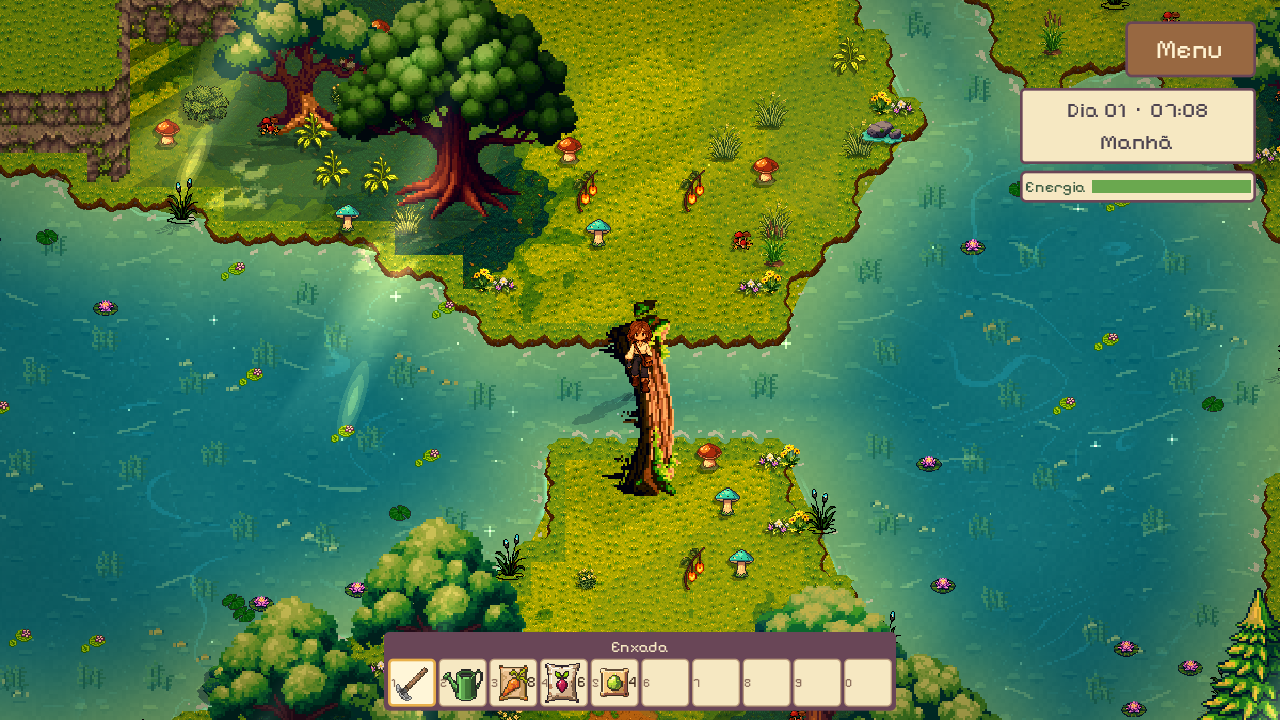
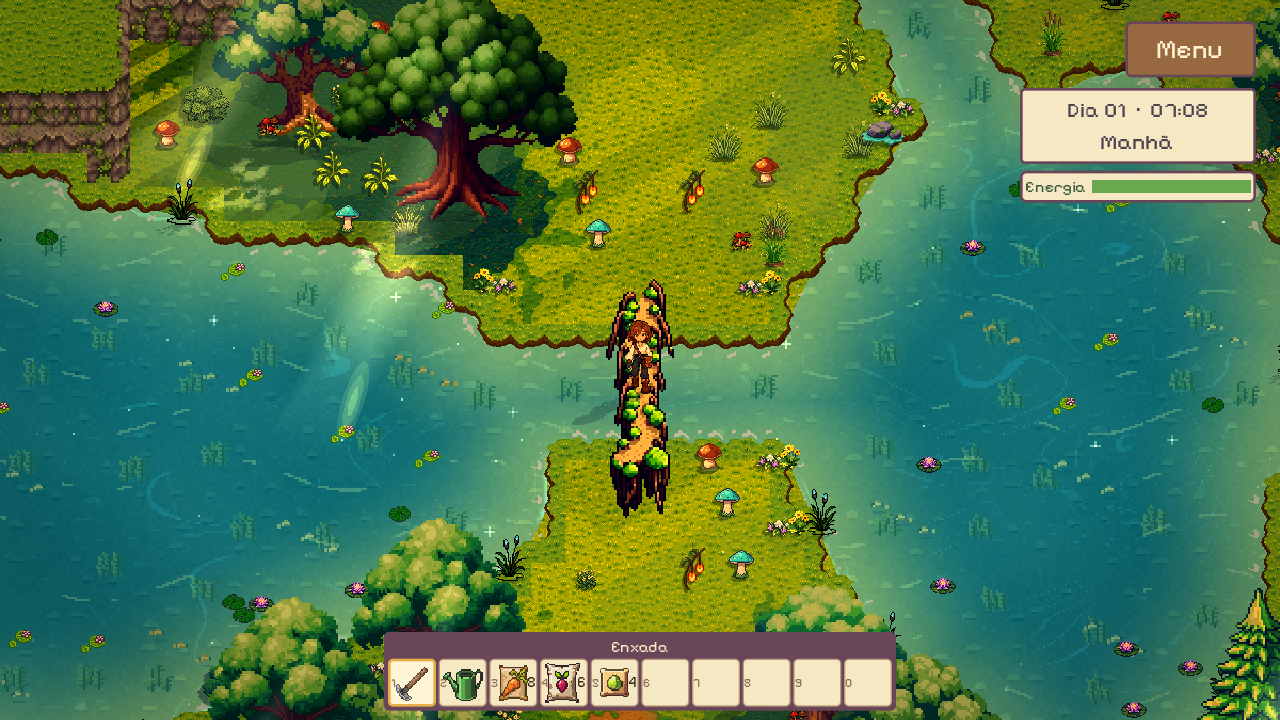
feat(visual): ponte de raízes vertical própria nas travessias oeste e leste
O arco girado 90° ficava com as raízes penduradas de lado. Novo sprite
PixelLab vertical (passarela reta de raízes com musgo). 5 travessias, 0 falhas.

diff --git a/docs/ASSET_MANIFEST.md b/docs/ASSET_MANIFEST.md
@@ -213,5 +213,6 @@ Gerado no PixelLab (`create_map_object`, 128×128, high top-down, high detail, d
 | Arquivo | Tamanho | SHA-256 |
 |---|---|---|
[2 lines of base64/hex data omitted]
 
-Arco de raízes entrelaçadas gerado no PixelLab (`create_map_object`, 128×48, high top-down, high detail, detailed shading, selective outline), recortado à caixa visível. Único aprovado pelo usuário: troncos caídos, pedras, istmo e versões verticais de raízes foram rejeitados (13 gerações no total). Usado nas 5 travessias por `scripts/world/natural_bridges.gd` (escala 2; girado 90° nas verticais, espelhado em alternância).
+Arco de raízes entrelaçadas gerado no PixelLab (`create_map_object`, 128×48, high top-down, high detail, detailed shading, selective outline), recortado à caixa visível. Único aprovado pelo usuário: troncos caídos, pedras, istmo e versões verticais de raízes foram rejeitados (13 gerações no total). Versão vertical (48×144, 3 variações, 1 aprovada) nas travessias oeste e leste. Desenhados por `scripts/world/natural_bridges.gd` em escala 2, espelhados em alternância.
